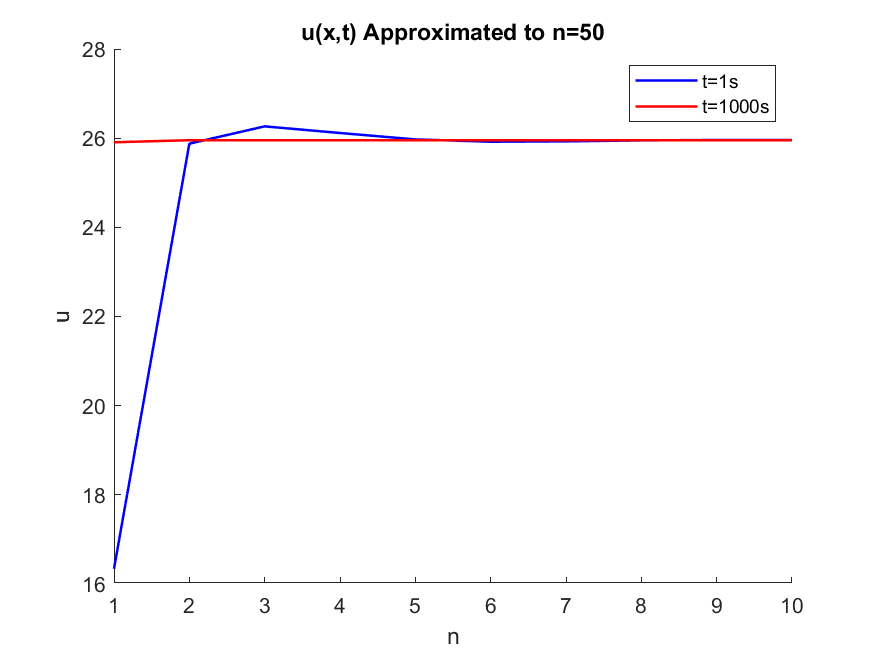
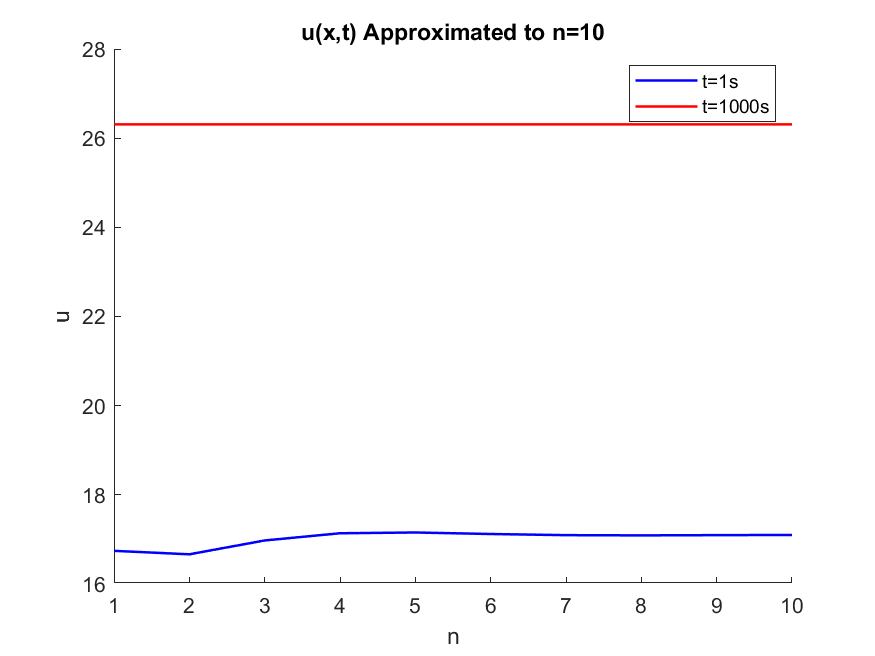
fizing

diff --git a/Part 1/ASEN3802_Lab2_P1_Driver.m b/Part 1/ASEN3802_Lab2_P1_Driver.m
@@ -161,44 +161,65 @@ end
 % %M % M is here to print values to input into overleaf table.
 
 %% Part 2
-
+Han = [91.1,132.1,101.7,146.7,544.1];
+T0 = [17.1,17.2,16.5,16.8,15.1];
+Hexp = [55.2,79.1,105.4,150.3,287.1];
 t1 = 1;
 t2 = 1000;
 % this for loops is simply to demonstrate that the model converges with
 % finite n
+% This is task 1!
+u1 = 0;
+u2 = 0;
 for i=1:10
     x = 0.0127*8;
-    b = -8*H_an(1)*L_Rod*(((-1)^(i+1))/(pi*pi*(2*i-1)^2));
+    b(i) = -8*Han(1)*L_Rod*(((-1)^(i+1))/(pi*pi*(2*i-1)^2));
     lam = (2*i-1)*pi/(2*L_Rod);
     alph = k_Aluminum/rho_Aluminum/cp_Aluminum;
-    u1(i) = T_0(1) + H_an(1)*x + b*sin(lam*x)*exp(-1*lam^2 * alph * t1);
-    u2(i) = T_0(1) + H_an(1)*x + b*sin(lam*x)*exp(-1*lam^2 * alph * t2);
+    if i-1 == 0
+        u1(i) = b(i)*sin(lam*x)*exp(-1*lam^2 * alph * t1);
+        u2(i) = b(i)*sin(lam*x)*exp(-1*lam^2 * alph * t2);
+    else
+        u1(i) = b(i)*sin(lam*x)*exp(-1*lam^2 * alph * t1) + u1(i-1);
+        u2(i) = b(i)*sin(lam*x)*exp(-1*lam^2 * alph * t2) + u2(i-1);
+    end
     n(i) = i;
 end
-u1(1) = T_0(1) + H_an(1)*x;
-u2(1) = T_0(1) + H_an(1)*x;
+u1 = u1+ T0(1) + Han(1)*x;
+u2 = u2 + T0(1) + Han(1)*x;
 figure()
 hold on
 plot(n,u1, 'b',linewidth=1.2)
 plot(n,u2, 'r',linewidth=1.2)
 xlabel('n')
 ylabel('u')
-title("u(x,t) Approximated to n=50")
+title("u(x,t) Approximated to n=10")
 legend("t=1s","t=1000s")
 hold off
-
+saveas(gcf,'part2task1plot','png')
 Fo1 = alph*t1/L_Rod^2;
 Fo2 = alph*t2/L_Rod^2;
-% for i=1:10
-%     b = -8*H_an()*L_Rod*(((-1)^(i+1))/(pi*pi*(2*i-1)^2));
-%     lam = (2*i-1)*pi/(2*L_Rod);
-%     alph = 
-%     uc1 = T0 + Hx + b*sin(lam*x)*exp(-1*lam^2 * alph * t1);
-%     u1 = u1 + uc1;
-%     uc2 = T0 + Hx + b*sin(lam*x)*exp(-1*lam^2 * alph * t2);
-%     u2 = u2 + uc2;
-% end
 
-[t,u] = part2Models(H_an(1),k_Aluminum,rho_Aluminum,cp_Aluminum,T_0(1),L_Rod);
-
-
+% this is for task 2
+kvec = [k_Aluminum,k_Aluminum,k_Brass,k_Brass,k_Steel];
+cpvec = [cp_Aluminum,cp_Aluminum,cp_Brass,cp_Brass,cp_Steel];
+rhovec = [rho_Aluminum,rho_Aluminum,rho_Brass,rho_Brass,rho_Steel];
+figure()
+hold on
+for i=1:5
+    [t,u] = part2Models(Han(i),kvec(i),rhovec(i),cpvec(i),T0(i),L_Rod,expData(i).values(end-2,1));
+    subplot(3,2,i)
+    for j=1:height(u)
+        hold on
+        h1 = plot(t,u(j,:,end),color=[240, 67, 67]/255,linewidth=1.2);
+        h2 = plot(expData(i).values(:,1),expData(i).values(:,j+1),color=[61,84,179]/255,linewidth=1.2);
+        hold off
+    end
+    strTitle = expData(i).name +"'s u vs t"; %iterateable title
+    title(strTitle, 'interpreter', 'none')   
+    xlabel('Time (s)')
+    ylabel('Temperature (C)')
+end
+legend(([h1,h2]),'Analytical Data', 'Experimental Data','Position',[0.568706595682436 0.270159257433763 0.09778645987312 0.0436185477568589])
+hold off
+saveas(gcf,'part2task2subplot','png')

diff --git a/Part 1/part2Models.m b/Part 1/part2Models.m
@@ -1,14 +1,24 @@
-function [t, u] = part2Models(Han,k,rho,cp,T_0,L_Rod)
+function [t, u1] = part2Models(Han,k,rho,cp,T_0,L_Rod,tend)
     x = .0127:0.0127:8*.0127;
-    t = 1:.1:1000;
-    u = 0;
-    for n=1:50
-        b = -8*Han*L_Rod*(((-1)^(n+1))/(pi*pi*(2*n-1)^2));
-        lam = (2*n-1)*pi/(2*L_Rod);
-        alph = k/rho/cp;
+    t = 1:1:tend;
+    u1 = 0;
+    for n=1:length(t)
         for j=1:length(x)
-            u1(j,:) = b*sin(lam*x(j))*exp(-1*lam^2 * alph * t);
+            for i=1:10
+                b = -8*Han*L_Rod*(((-1)^(i+1))/(pi*pi*(2*i-1)^2));
+                lam = (2*i-1)*pi/(2*L_Rod);
+                alph = k/rho/cp;
+                if i-1 == 0
+                    u1(j,n,i) = b*sin(lam*x(j))*exp(-1*lam^2 * alph * t(n));
+                else
+                    u1(j,n,i) = b*sin(lam*x(j))*exp(-1*lam^2 * alph * t(n)) + u1(j,n,i-1);
+                end
+            end
+            u1(j,n,end) = u1(j,n,end) + T_0 + Han*x(j);
         end
-        u = u1 + u;
+    end
+
+    for i=1:length(x)
+        u(i,:) = u1(i,:,end);
     end
 end
